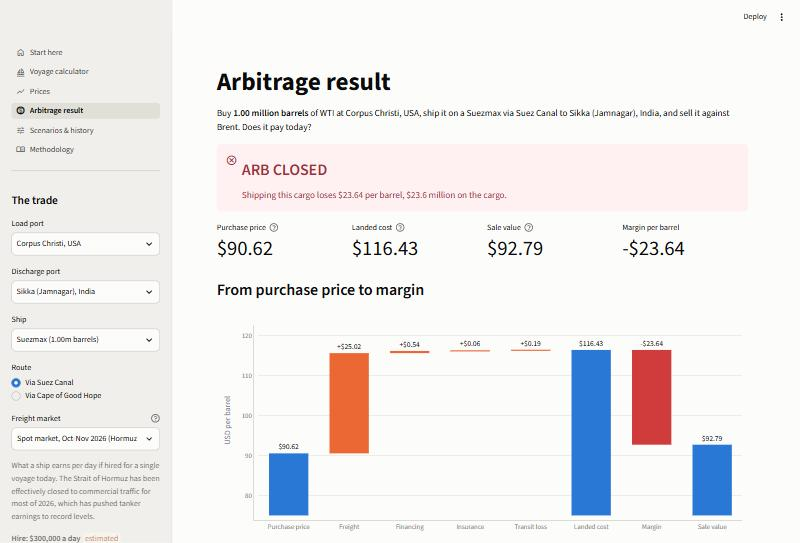
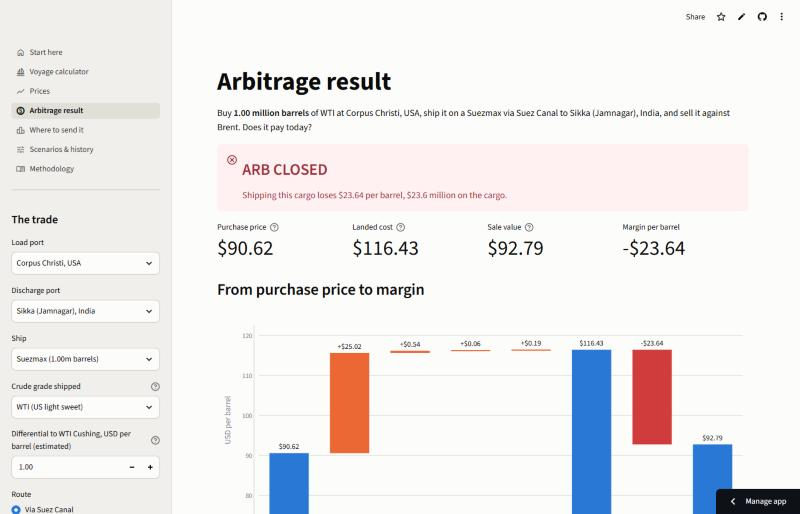
Interview notes and case study brought up to date; new README screenshots (arbitrage, ranking, grid)

diff --git a/docs/INTERVIEW_NOTES.md b/docs/INTERVIEW_NOTES.md
@@ -1,6 +1,6 @@
 # Interview notes
 
-Figures quoted are from the model run on 15 November 2026 (prices for 11 November). Re-check them
+Figures quoted are from the model run on 17 November 2026 (prices for 11 November). Re-check them
 on the dashboard before an interview; prices move every day.
 
 ## The two-minute explanation
@@ -22,6 +22,13 @@ with Hormuz effectively shut, my estimate of freight to India is about $25 a bar
 is shut by more than $20. In a calm market the same voyage costs $5 to $6. The tool also shows
 the Suez-versus-Cape decision: the Cape costs time, Suez costs cash, and there is a break-even
 hire rate, around $86,000 a day on my numbers, above which the canal is worth paying for.
+
+From there I built it out the way a desk would use it. It covers four US Gulf terminals and two
+North Sea ones, seven discharge ports, five ship sizes and five crude grades. A ranking page costs
+one cargo to every destination, the netback view. You can type a broker's Worldscale or lump-sum
+quote and see what it pays the owner per day. It includes the costs people forget: reverse
+lightering at shallow US ports, EU carbon on voyages into Rotterdam, and the futures-curve effect
+on a hedged cargo.
 
 I was careful about data. Real freight rates and physical differentials are paywalled, so I used
 public benchmarks, the published Suez tariff, and estimates that are labelled as estimates on
@@ -51,11 +58,20 @@ corresponds to roughly $230,000 to $300,000 a day, and I set it at the top of th
 hire rate in the tool is flagged as an estimate, including the published ones, because none of
 them is for this route.
 The value of my approach is not the level, it is that you can see which driver moves the answer.
+If you have a real quote, you can type it in: Worldscale points times the route's flat rate
+(which you type too, because flat rates are sold by subscription) times the cargo's tonnes, or a
+lump sum. The tool then shows the owner's daily earnings (TCE) after commissions. Typing $25m for
+the base voyage gives net freight of $24.38 a barrel to the charterer and about $286,000 a day to
+the owner.
 
 **4. Your origin price is WTI Cushing. That is not a Gulf Coast export price.**
 Correct. The export grade is WTI at Houston (MEH) or WTI Midland, priced at a differential to
-Cushing that reflects pipeline tariffs and export demand. Free data only gives Cushing, so I add
-an estimated $1.00 and expose it. In a real desk model I would use the MEH assessment.
+Cushing that reflects pipeline tariffs and export demand. Free data only gives Cushing, so each
+grade carries an estimated differential you can edit: WTI Midland +$1.30 (Argus, March 2026),
+Mars +$1.50 (May 2026). They are dated snapshots, and this year they moved a lot: Mars went from
+around $13 over WTI in March to about $1.50 by May. North Sea cargoes are priced the same way off
+Brent: Forties at Dated Brent, Johan Sverdrup at about +$6 (Platts, October-November 2026). In a
+real desk model I would use the Platts or Argus assessments.
 
 **5. How do you value the crude at destination?**
 A benchmark (Brent daily, or Dubai monthly) plus a quality adjustment: $0.40 per degree of API
@@ -65,11 +81,15 @@ price, less processing cost, for their specific refinery. And very light crude i
 worth more. I would also need the actual delivered premium, which is negotiated and private.
 
 **6. What is missing on the price side? What about hedging and curve structure?**
-The model buys and sells at today's spot prices. A real cargo prices over a window (for example
-five days around bill of lading), sells on a different window a month later, and the trader hedges
-the gap with futures or swaps. The shape of the curve then matters: in contango the cargo gains
-value at sea, in backwardation it loses. For a 36-day voyage that can be worth more than my
-financing cost. It is the first thing I would add.
+A real cargo prices over a window (for example five days around bill of lading), sells on a
+different window a month later, and the trader hedges the gap with futures or swaps. The shape of
+the curve then matters: in contango the hedged cargo gains value at sea, in backwardation it
+loses. The tool models that one effect: you type the gap between the first two futures months,
+and it adds that gap times the months the cargo is financed. A $0.60 contango over 34 days is
+worth +$0.68 a barrel. The free EIA futures series stopped in April 2024, so I show its 1985-2024
+history for scale: half of all months were within about 35 cents either way, with extremes of
++$7.38 in April 2020 and -$2.70 in July 2022. What I still do not model: pricing windows, basis
+risk between the futures and the destination benchmark, and the cost of the hedge.
 
 **7. How did you get the Suez Canal toll?**
 From the canal authority's published tariff (Circular 7/2023, effective January 2024): a sliding
@@ -110,9 +130,27 @@ US arrivals into India fell to zero this autumn.
   My calculator runs that logic in reverse.
 - **Why can a VLCC not use Suez loaded?** Draught: the canal allows about 20.1 m and a full VLCC
   draws about 22 m. It can go through empty, or part-discharge into the SUMED pipeline.
-- **How would you extend it?** Curve structure and hedging; real freight assessments if I had
-  access; more routes and grades (the ports, ships and grades are data files, so that is mostly
-  adding entries); gross-product-worth valuation by refinery type.
+- **Who pays the commissions?** In a voyage charter they come out of the freight. The address
+  commission (often 2.5%) goes back to the charterer, so a quote costs the charterer a little less
+  than its headline; the brokerage (often 1.25%) is paid by the owner. Adding them as an extra
+  cost would double-count, so the tool applies them only to a typed-in quote.
+- **Why does a VLCC from Houston cost more than one from LOOP?** Houston's channel is about 45 ft
+  and a full VLCC draws about 70, so it leaves part-loaded and is topped up offshore by smaller
+  ships (reverse lightering). The tool charges an estimated 60 cents a barrel (a 2018 Columbia
+  University range of 50-75 cents) and shows a warning. LOOP is offshore deep water, so a VLCC
+  loads in full there.
+- **What does EU carbon add?** Since 2026 ships pay for 100% of CO2 under the EU scheme: half of
+  a voyage into or out of the EU, all of a voyage between EU (or Norwegian) ports, all of the fuel
+  at berth in those ports. On a Suezmax from Houston to Rotterdam it is about 20 cents a barrel.
+  The UK is outside the EU scheme; its own scheme covers only domestic voyages for now.
+- **Where should the cargo go?** The ranking page costs the same cargo to every port by its
+  cheapest route. Today Rotterdam is the least bad (-$11.03 on the base case) because it is the
+  shortest voyage; Ulsan is the worst (-$33.67). All ports are valued against one benchmark, so
+  the ranking shows the effect of the voyage only, not of local premiums.
+- **How would you extend it?** Real freight and physical price assessments if I had access;
+  valuation by the products a refinery makes (gross product worth), which needs yield data I
+  could not get free; pricing windows and basis risk on the hedge; a Panama Canal option for
+  smaller ships once I can source the toll.
 
 ## Numbers to have in your head
 
@@ -127,3 +165,8 @@ US arrivals into India fell to zero this autumn.
 | Barrels per tonne, light crude | about 7.6 |
 | Financing a $90m cargo for 36 days at 5.9% | about $0.54 a barrel |
 | One day of delay at $300,000 a day on 1m barrels | about $0.30 a barrel |
+| North Sea to west coast India | about 6,600 nm via Suez |
+| Quality rule ($0.40 per API degree, $1 per sulphur point) vs Brent | WTI Midland +$1.65, Mars -$5.04, Johan Sverdrup -$4.28 |
+| Reverse lightering (estimate) | about $0.60 a barrel |
+| EU carbon, US Gulf to Rotterdam, Suezmax | about $0.20 a barrel |
+| Suez or Cape break-even hire rate | about $86,000 a day with war-risk cover, $32,000 without |

diff --git a/docs/CASE_STUDY.md b/docs/CASE_STUDY.md
@@ -1,6 +1,9 @@
 # Case study: Suez or Cape? What the Red Sea diversions do to a US crude cargo for India
 
 *Model run on 15 November 2026 with prices for 11 November 2026 (WTI $89.62, Brent $92.14, US EIA).
+Re-checked on 17 November 2026 after the tool gained more ports, grades and cost lines: none of
+them apply to this voyage (Corpus Christi takes a full Suezmax, and India is outside the EU carbon
+scheme), so every figure below is unchanged.
 All model figures use public benchmarks and documented estimates, not traded freight data.*
 
 ## What happened

diff --git a/README.md b/README.md
@@ -38,6 +38,8 @@ US Gulf grades (WTI, WTI Midland, Mars) are priced off WTI Cushing, North Sea gr
 | **Methodology** | Every assumption with its value, source, date checked and whether it is an estimate, plus what the model leaves out. |
 
 ![Voyage calculator](docs/screenshots/voyage.jpg)
+![Where to send it: the same cargo costed to every discharge port](docs/screenshots/ranking.jpg)
+![Ship cost against price gap: where the arb opens](docs/screenshots/grid.jpg)
 
 ## What is real and what is estimated
 
